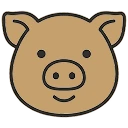
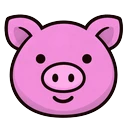
jaya

diff --git a/game.js b/game.js
@@ -77,9 +77,9 @@ class AssetManager {
     }
 
     // THE PIGGY WITH ITS WHEEL ON, baked into one canvas texture the size of
-    // the piggy — the wheel at ITEM_ART.WHEEL_AT, scaled with the piggy if the
-    // art is not the reference size. Needs both pictures in hand; returns
-    // whether the texture now exists.
+    // the piggy, or bigger where the wheel runs past it — the wheel at
+    // ITEM_ART.WHEEL_AT, scaled with the piggy if the art is not the reference
+    // size. Needs both pictures in hand; returns whether the texture now exists.
     composeBattery(iconLvl) {
         const T = this.scene.textures;
         const key = `battery${iconLvl}`;
@@ -89,7 +89,9 @@ class AssetManager {
         const pig = T.get(pk).getSourceImage(), wheel = T.get(wk).getSourceImage();
         const at = ITEM_ART.WHEEL_AT;
         const kx = pig.width / ITEM_ART.REF_W, ky = pig.height / ITEM_ART.REF_H;
-        const canvas = T.createCanvas(key, pig.width, pig.height);
+        const cw = Math.max(pig.width,  Math.ceil((at.x + at.size) * kx));
+        const ch = Math.max(pig.height, Math.ceil((at.y + at.size) * ky));
+        const canvas = T.createCanvas(key, cw, ch);
         if (!canvas) return false;
         const ctx = canvas.getContext();
         ctx.drawImage(pig, 0, 0);

diff --git a/batteryChargeData.js b/batteryChargeData.js
@@ -23,13 +23,14 @@
 // ==================================================================================
 var ITEM_ART = {
     // file name = prefix + number (zero-padded to `pad`) + '.' + ext
-    PIGGY: { folder: 'piggy',    prefix: 'item_',     count: 28, ext: 'webp', pad: 2 },
+    PIGGY: { folder: 'piggy',    prefix: 'piggy_',    count: 14, ext: 'webp', pad: 2 },
     WHEEL: { folder: 'st_wheel', prefix: 'st_wheel_', count: 90, ext: 'webp', pad: 2 },
     // Where the wheel goes, in the PIGGY's own pixels — its top-left corner
     // and its size — for a piggy of REF_W × REF_H. Art of another size is
-    // scaled to match.
-    REF_W: 156,
-    REF_H: 136,
+    // scaled to match. The wheel runs past the piggy's right edge; the baked
+    // texture grows to hold it (composeBattery).
+    REF_W: 128,
+    REF_H: 128,
     WHEEL_AT: { x: 82, y: 61, size: 64 },
 };
 
@@ -149,7 +150,7 @@ function _itemFile(art, n) {
     return `graphics/${art.folder}/${art.prefix}${num}.${art.ext}`;
 }
 
-// Which piggy picture an ICON level wears — the 28 loop.
+// Which piggy picture an ICON level wears — the 14 loop.
 function itemPiggyIndex(iconLvl) {
     return ((iconLvl - 1) % ITEM_ART.PIGGY.count) + 1;
 }

diff --git a/config.js b/config.js
@@ -106,7 +106,7 @@ var CONFIG = {
         BATCH:    4,        // icons per tick, so ~4.5 per second at the default
     },
 
-    BATTERY_START_LEVEL: 1,
+    BATTERY_START_LEVEL: 50,
     // Coins a new run starts with. Default 2500; raise it to debug later levels.
     START_COINS: 2500,
     // THE ECONOMY. Coins come from catching villains — see levelData.js.
@@ -1084,7 +1084,7 @@ var CONFIG = {
 // WHICH OF THE 90 PICTURES a level shows (one per steering wheel — see
 // ITEM_ART). Past the last one it WRAPS, not clamps — level 91 shows level 1's
 // picture again, and so on forever. The piggy inside the picture loops on its
-// own every 28 (itemPiggyIndex). This is the one place that
+// own every 14 (itemPiggyIndex). This is the one place that
 // decision is made: everywhere else that draws a pig's icon calls this first
 // (see AssetManager and every dressWhenReady call site in game.js), so a
 // change here is a change everywhere at once.
